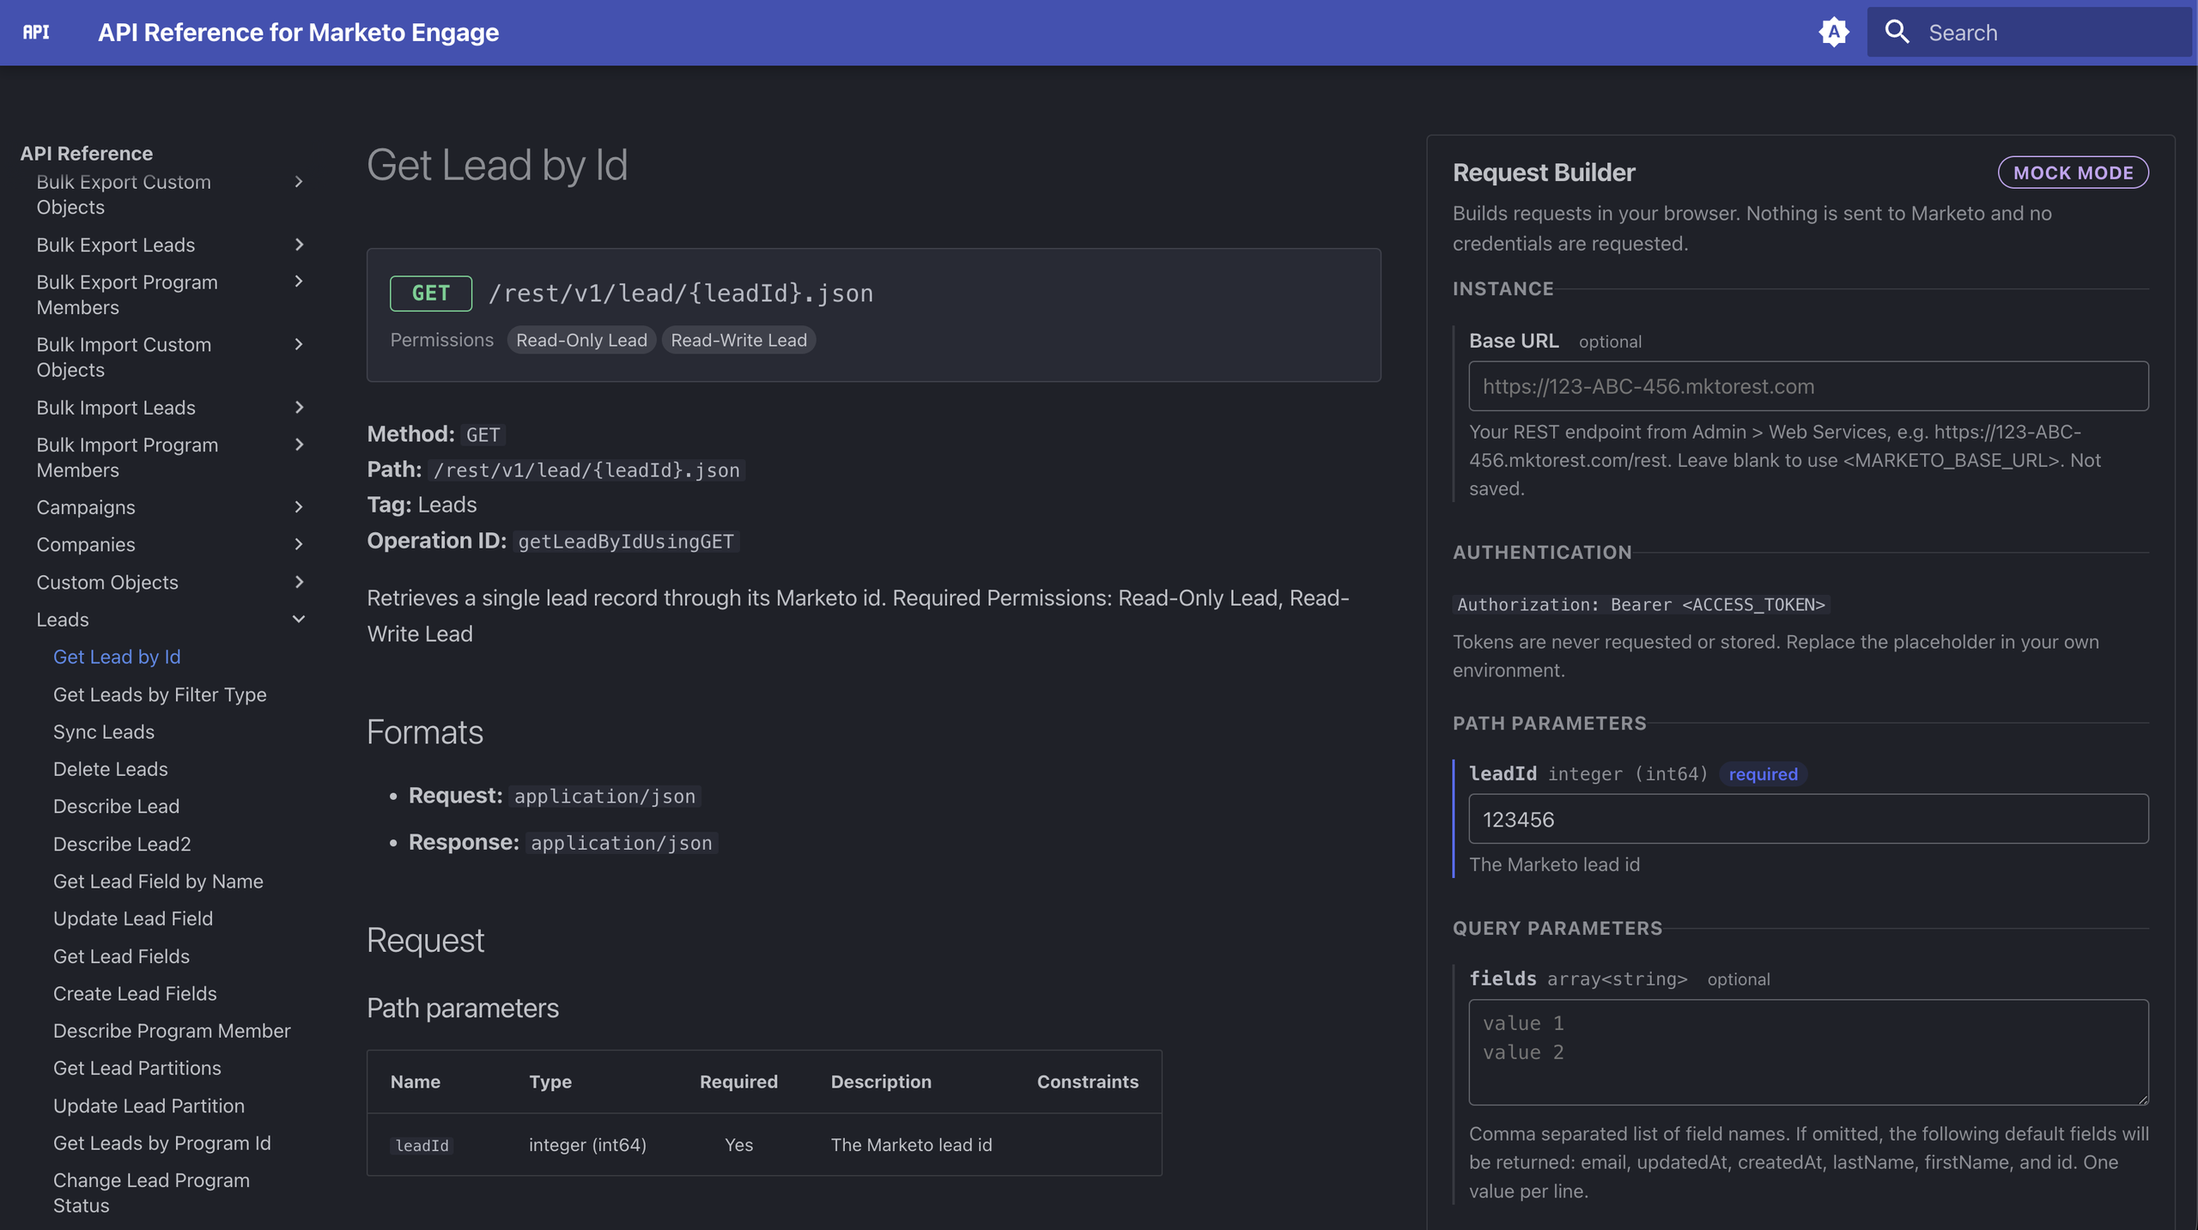
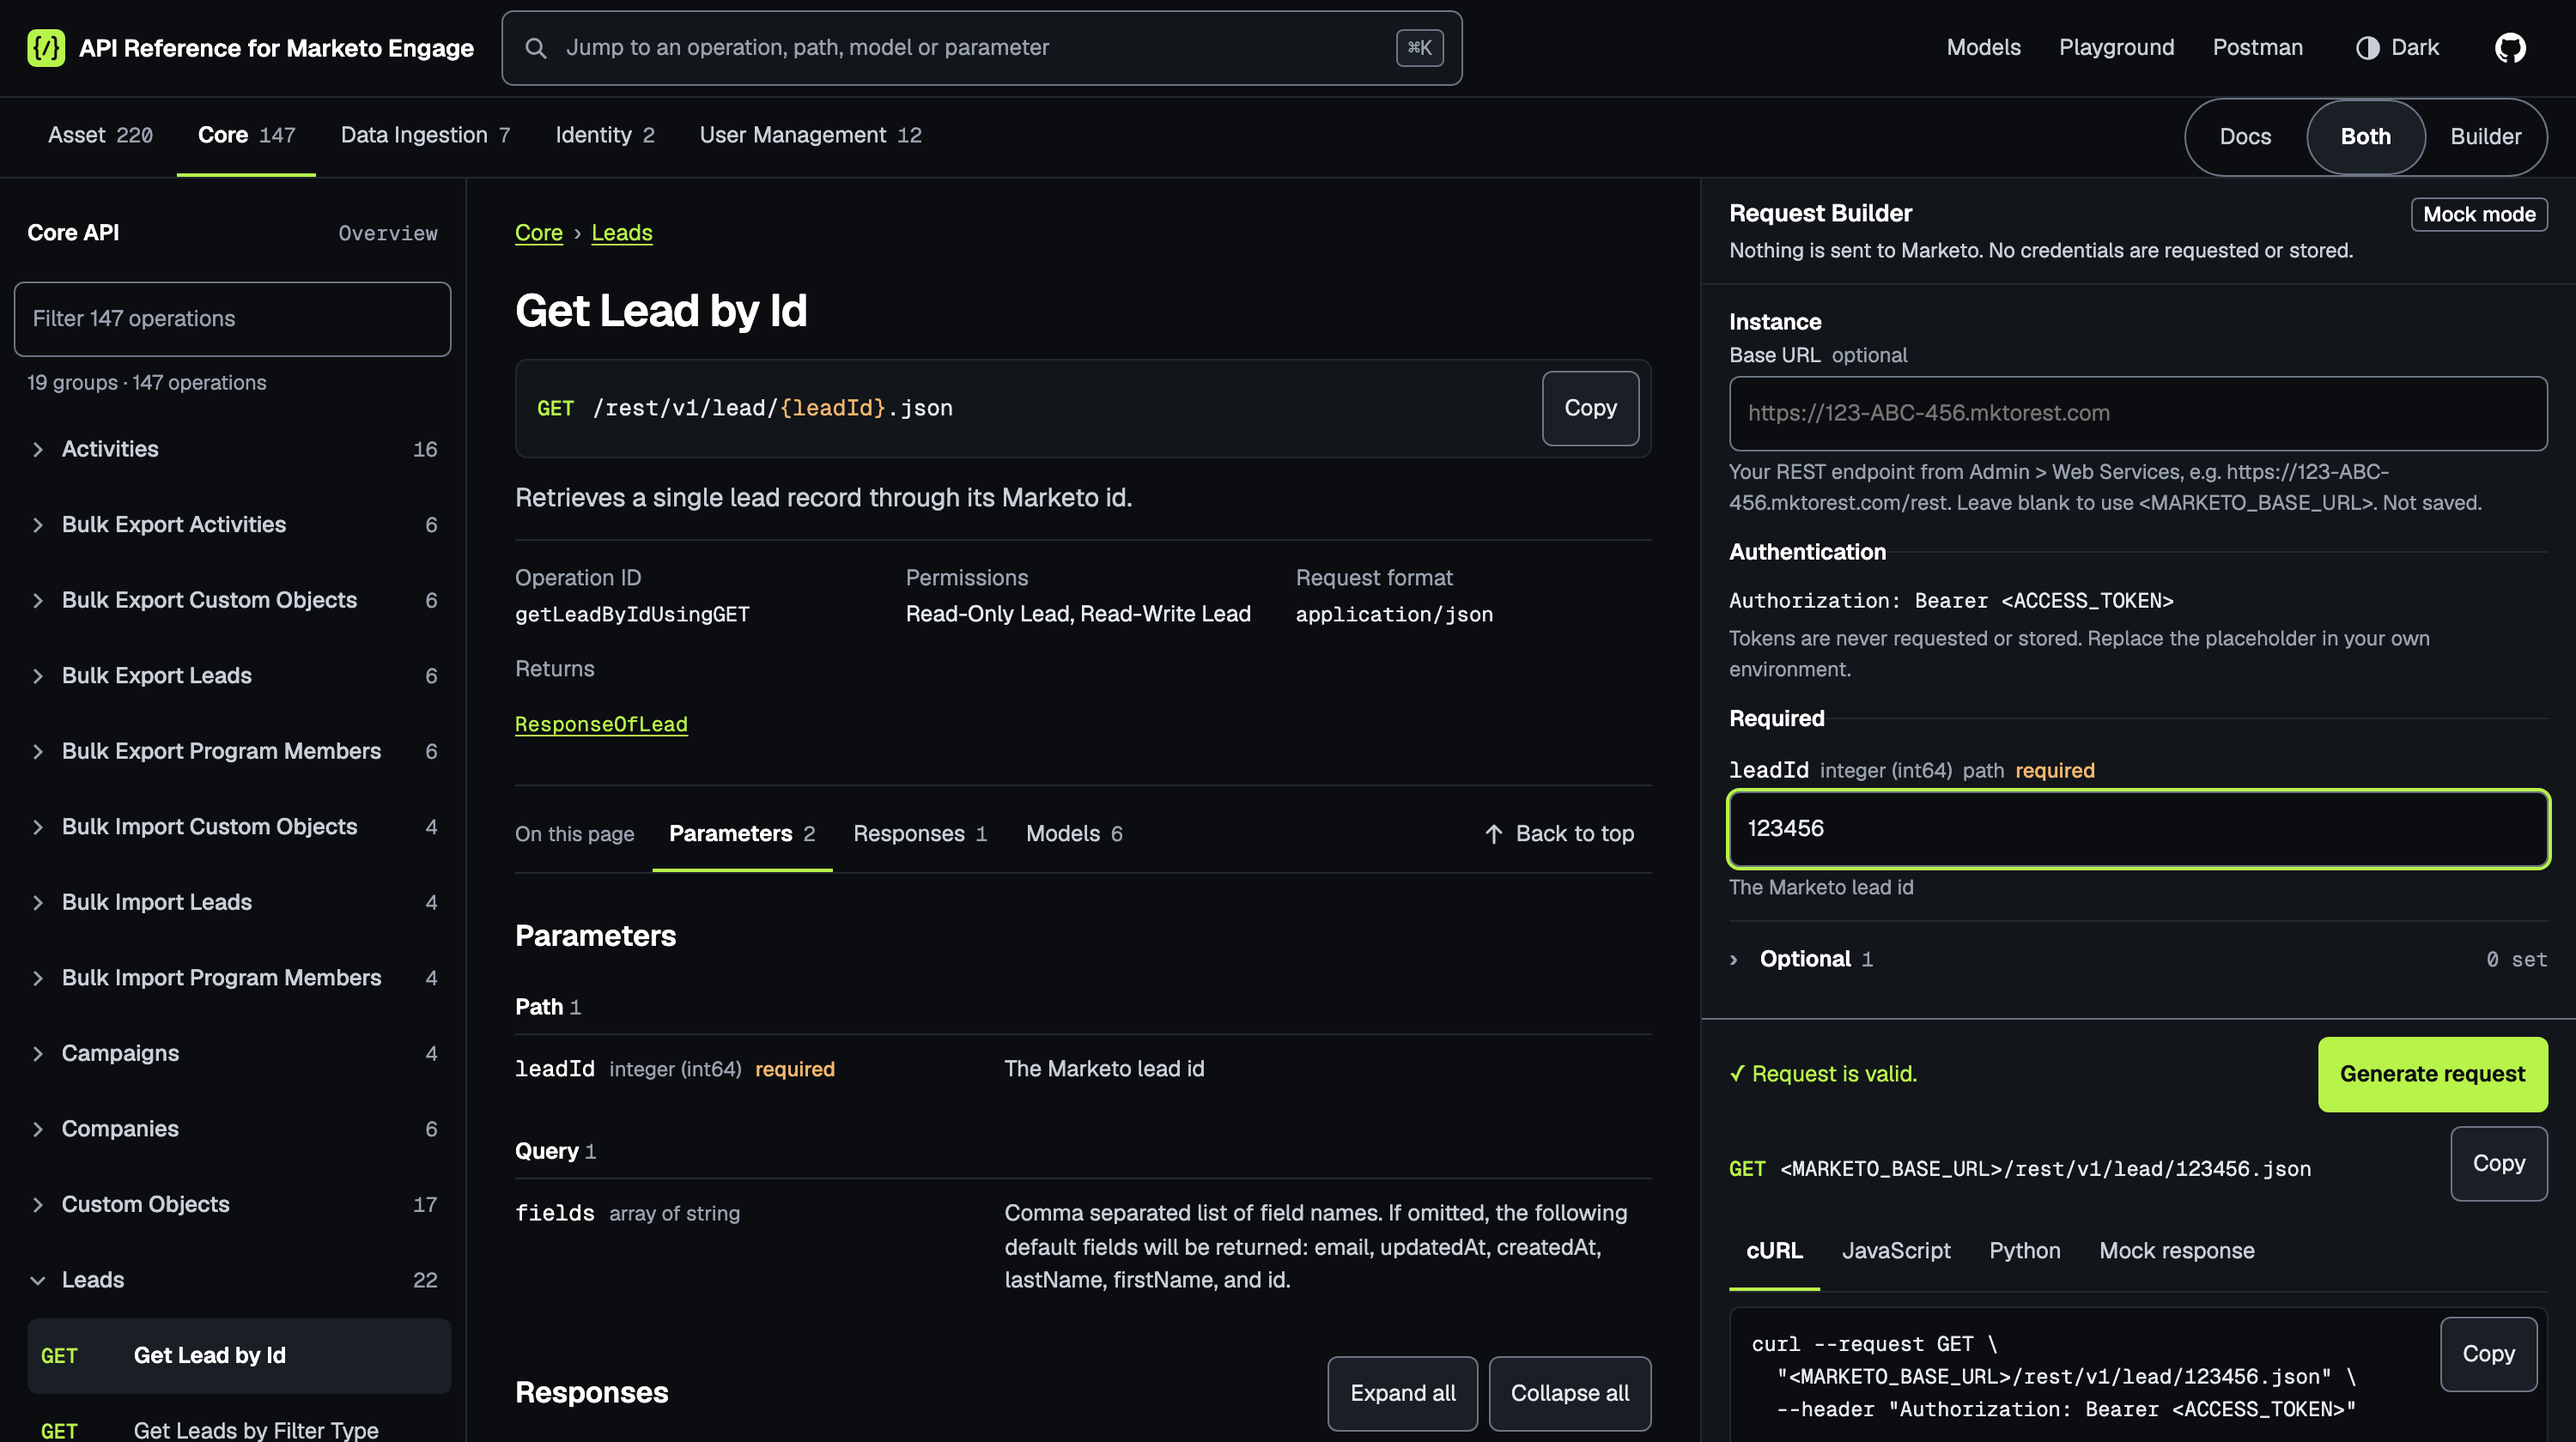
content: update the Marketo API reference post for the Astro rebuild (#97)
## What changed

Updates the API reference post and project image for the site's move
from MkDocs to Astro. **Merge after [the site's
switch](https://github.com/harrison-jennings/api-reference-for-marketo-engage/pull/9)
is live**, because this describes and shows the new site.

- New screenshots of the reference, search, the Request Playground and
mock responses, and the project image
- A new architecture diagram in the site's brand, with text that can be
read at full size
- A new short section, "moving off MkDocs", drafted for you to edit
- Small copy edits where the post named MkDocs, plus a sentence on the
Fields view and one on the browser tests
- `updated` added to the front matter. Change the date if this merges on
a later day

The two GitHub screenshots (the weekly check issue and the spec update
pull request) are unchanged, because they're still accurate.

## Why

The post and its images show the old MkDocs site, which goes away with
the switch.

## How it was checked

- [x] `npm run build` passes, and Prettier passes on the post
- [ ] `npm run verify` passes (format, lint, types, build): left to CI
- [ ] Checked the branch preview in dark and light mode
- [ ] Checked at phone width (375px) and desktop
- [ ] Keyboard and reduced-motion behaviour still work, if UI changed:
no UI changes
- [ ] Lighthouse or PageSpeed checked, if a page's weight or layout
changed: no layout change, and the images are smaller than before
[…]

diff --git a/src/content/posts/automating-my-way-around-marketo-api-documentation/index.md b/src/content/posts/automating-my-way-around-marketo-api-documentation/index.md
@@ -4,6 +4,7 @@ description: "I use the Marketo Engage REST API reasonably often, and its docume
 searchTitle: "a better Marketo API reference, generated from Adobe's specs"
 searchDescription: "Marketo's REST API documentation left me wanting, so I generated a searchable reference from Adobe's Swagger and OpenAPI specs, with request building."
 published: 2026-09-23
+updated: 2026-11-03
 topics: [adobe-marketo-engage, web-development]
 wpId: 544
 ---
@@ -32,7 +33,7 @@ I kept finding myself staring at request templates full of placeholders, cross-r
 
 Naturally, this became a project.
 
-![The API reference open on Get Lead by Id: the operation's method, path and parameters in the middle, and the Request Builder beside it in mock mode with a base URL, authentication placeholder and a lead ID](./api-reference.png)
+![The API reference open on Get Lead by Id: operations down the left, the method, path and parameters in the middle, and the Request Builder beside them in mock mode, with a base URL, an authentication placeholder and a lead ID](./api-reference.png)
 
 ## what I wanted from an API reference
 
@@ -247,7 +248,7 @@ If Adobe changes a parameter in the source specification, the next rebuild shoul
 
 ## making the reference searchable
 
-Once the generated reference existed, I wrapped it in a static documentation site using [MkDocs](https://www.mkdocs.org/) and [Material for MkDocs](https://squidfunk.github.io/mkdocs-material/).
+Once the generated reference existed, I wrapped it in a static documentation site. That was originally [MkDocs](https://www.mkdocs.org/) with [Material for MkDocs](https://squidfunk.github.io/mkdocs-material/), and it's now [Astro](https://astro.build/) with [Pagefind](https://pagefind.app/) (more on that move below).
 
 That gave me navigation and full-text search across the generated content without requiring an application server or database.
 
@@ -273,7 +274,7 @@ With hundreds of endpoints distributed across multiple API families, being able 
 
 So if I remember that an endpoint contains programMember, but have absolutely no recollection of where Adobe decided to put it, I can search for it. If I know the exact operation ID, I can search for that. If I've got a path from some ancient integration and want to work out what it actually does, I can search for that too.
 
-![Searching the reference for program members: 121 matching documents, led by Delete Program Members and Get Program Members with their methods, paths and operation IDs](./search.png)
+![Searching the reference for program members: 221 results, led by exact matches for the Program Members groups, then Delete Program Members and Sync Program Member Status with their paths and highlighted terms, beside filters for kind, API and method](./search.png)
 
 Useful. But still mostly documentation.
 
@@ -339,7 +340,7 @@ If I enter a form ID of `1234` and select `approved`, the builder has enough inf
 /rest/asset/v1/form/1234.json?status=approved
 ```
 
-![The Request Playground building Get Form By Id: an id of 1234 and a status of approved produce a GET request, a cURL sample and a mock response generated from the response model](./request-builder.png)
+![The Request Playground building Get Form By Id: an id of 1234 and a status of approved produce a GET request and a cURL sample, with a tab beside it for the mock response](./request-builder.png)
 
 The same approach extends beyond simple path and query parameters.
 
@@ -411,6 +412,8 @@ A valid body therefore takes the form:
   ]
 }
 ```
+
+The builder draws that body as a form: a row for each lead, buttons to add or remove them, and a JSON view of the same value for when I'd rather just type it.
 
 This is the part of the architecture I find particularly useful. The Request Builder does not know how to construct **Get Form By Id** because I wrote logic specifically for Marketo forms, and it does not know how to construct **Add Leads to List** because I built another bespoke interface for the Data Ingestion API.
 
@@ -594,7 +597,7 @@ If a request contains multiple records, for example, an appropriate mock respons
 
 The result is more useful than simply printing an empty schema while remaining clearly synthetic.
 
-![A generated request for lead 54321 with its cURL sample, and a mock 200 response from the ResponseOfLead model containing the lead's default fields](./mock-response.png)
+![A generated request for lead 54321, and a mock 200 response from the ResponseOfLead model containing the lead's default fields](./mock-response.png)
 
 ## resolving the shared data models
 
@@ -722,7 +725,7 @@ That merge then rebuilds the public reference.
 
 Because the reference is generated, a successful Python process is not enough evidence that the site is healthy.
 
-The CI process also runs unit and integration tests around the Request Builder and validates the resulting static site.
+The CI process also runs unit and integration tests around the Request Builder, validates the resulting static site, and then opens that site in three browser engines.
 
 This catches a different category of problem.
 
@@ -732,7 +735,7 @@ An operation used by a Request Builder fixture might disappear.
 
 A generated link might point to a model which no longer exists.
 
-The MkDocs build itself might start warning about unresolved references or configuration problems.
+The site itself might end up with a missing page, a broken link or two pages fighting over the same title.
 
 So the CI boundary is deliberately broader than:
 
@@ -764,11 +767,25 @@ The objective was not to make an unofficial copy of Adobe's site.
 
 It was to build a different interface over machine-readable API material Adobe already publishes.
 
+## moving off MkDocs
+
+MkDocs got this project off the ground, and I would happily use it again for something smaller. But a few things pushed me to move.
+
+Material for MkDocs, the theme doing most of the work, is winding down, with support currently due to end in May 2027, and it isn't compatible with MkDocs 2.0. So a move was coming sooner or later. I also wanted a layout a documentation theme wasn't designed for, with the docs and the Request Builder side by side, and I wanted the site to be found. Until now, it deliberately asked search engines not to index it.
+
+So I rebuilt the front end in Astro, with Pagefind for search.
+
+This is where generating everything paid off, because the move was much less dramatic than it sounds. The specifications, the generator, the reference and the Postman collection did not change at all. The collection came out byte-for-byte identical. Only the last step of the pipeline moved, and all 915 pages kept their URLs.
+
+I also measured it rather than assuming it would be better. Across 28 test searches, the right page came first 22 times, up from 18. Not everything improved, though. The largest operation pages got a little heavier (List Emails went from 10.4 KB to 13.7 KB compressed), and the build went from 3.9 seconds to just under 5. I can live with that.
+
+The rebuild was also a chance to tighten up the promises the site makes. "Nothing is sent to Marketo" is exactly the sort of claim that should be enforced rather than just written down, so a browser test now fails if any request leaves the site.
+
 ## what I ended up with
 
 The final architecture looks roughly like this:
 
-![The pipeline: Adobe's Swagger and OpenAPI specifications feed a Python reference builder, which produces Markdown reference pages, operation JSON and a Postman collection; the MkDocs site and its Request Builder generate cURL, JavaScript and Python requests and mock responses, while a weekly GitHub Action fetches the specs, regenerates, tests and opens a draft pull request](./architecture.png)
+![The pipeline, in three bands. Generate: Adobe's Swagger and OpenAPI specifications feed a Python generator, which produces the reference and a Postman collection. Build and check: Astro, Pagefind, a site check and browser tests. Serve: GitHub Pages, the reference and search, the Request Builder and mock responses. Beside them, a weekly GitHub Action fetches the specs, compares, regenerates, tests and opens a draft pull request for a person to merge](./architecture.png)
 
 What started as a request-template problem therefore became a fairly complete specification-processing pipeline.
 
